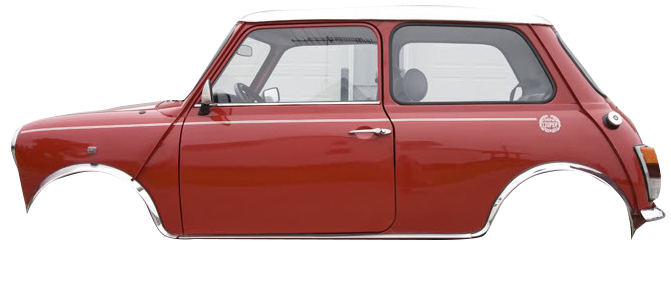
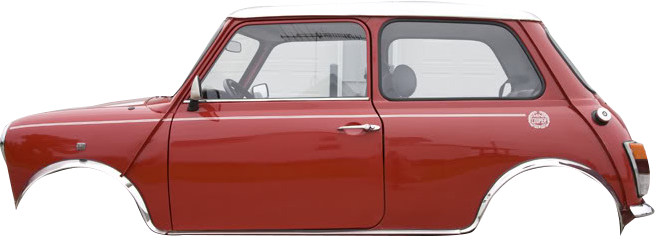
static pimped wheels

diff --git a/stylesheets/screen.css b/stylesheets/screen.css
@@ -67,9 +67,37 @@ article, aside, details, figcaption, figure, footer, header, hgroup, menu, nav, 
   display: block;
 }
 
-/* line 10, ../sass/screen.scss */
+/* line 11, ../sass/screen.scss */
+.clearfix, .ride__wheels {
+  *zoom: 1;
+}
+/* line 38, ../../../../../../Library/Ruby/Gems/1.8/gems/compass-0.12.2/frameworks/compass/stylesheets/compass/utilities/general/_clearfix.scss */
+.clearfix:after, .ride__wheels:after {
+  content: "";
+  display: table;
+  clear: both;
+}
+
+/* line 14, ../sass/screen.scss */
+h1 {
+  position: absolute;
+  top: 5%;
+  left: 0;
+  text-align: center;
+  width: 100%;
+  text-transform: uppercase;
+  color: #444;
+  font-size: 3em;
+  z-index: 3;
+}
+
+/* line 25, ../sass/screen.scss */
 #world {
-  background-size: 100% auto;
+  background-image: -webkit-gradient(linear, 50% 0%, 50% 100%, color-stop(0%, #ffffff), color-stop(36%, #ffffff), color-stop(82%, #aaaaaa), color-stop(82%, #777777), color-stop(85%, #777777), color-stop(93%, #aaaaaa), color-stop(100%, #eeeeee));
+  background-image: -webkit-linear-gradient(#ffffff, #ffffff 36%, #aaaaaa 82%, #777777 82%, #777777 85%, #aaaaaa 93%, #eeeeee);
+  background-image: -moz-linear-gradient(#ffffff, #ffffff 36%, #aaaaaa 82%, #777777 82%, #777777 85%, #aaaaaa 93%, #eeeeee);
+  background-image: -o-linear-gradient(#ffffff, #ffffff 36%, #aaaaaa 82%, #777777 82%, #777777 85%, #aaaaaa 93%, #eeeeee);
+  background-image: linear-gradient(#ffffff, #ffffff 36%, #aaaaaa 82%, #777777 82%, #777777 85%, #aaaaaa 93%, #eeeeee);
   position: absolute;
   top: 0;
   left: 0;
@@ -77,9 +105,8 @@ article, aside, details, figcaption, figure, footer, header, hgroup, menu, nav, 
   height: 100%;
 }
 
-/* line 19, ../sass/screen.scss */
+/* line 33, ../sass/screen.scss */
 .ride {
-  border: solid 1px green;
   position: absolute;
   bottom: 5%;
   left: 50%;
@@ -88,61 +115,33 @@ article, aside, details, figcaption, figure, footer, header, hgroup, menu, nav, 
   margin-left: -450px;
 }
 
-/* line 28, ../sass/screen.scss */
+/* line 41, ../sass/screen.scss */
 .ride__car {
-  border: solid 1px red;
+  position: absolute;
   width: 100%;
-  height: 100%;
-}
-
-/* line 33, ../sass/screen.scss */
-.wheel {
-  background: black;
-  background-image: -webkit-gradient(radial, 50% 50%, 0, 50% 50%, 90, color-stop(13%, #222222), color-stop(27%, #000000), color-stop(53%, #222222), color-stop(68%, #333333), color-stop(90%, #000000));
-  background-image: -webkit-radial-gradient(#222222 13%, #000000 27%, #222222 53%, #333333 68%, #000000 90%);
-  background-image: -moz-radial-gradient(#222222 13%, #000000 27%, #222222 53%, #333333 68%, #000000 90%);
-  background-image: -o-radial-gradient(#222222 13%, #000000 27%, #222222 53%, #333333 68%, #000000 90%);
-  background-image: radial-gradient(#222222 13%, #000000 27%, #222222 53%, #333333 68%, #000000 90%);
-  width: 150px;
-  height: 150px;
-  -webkit-border-radius: 50%;
-  -moz-border-radius: 50%;
-  -ms-border-radius: 50%;
-  -o-border-radius: 50%;
-  border-radius: 50%;
-  position: absolute;
   bottom: 0;
-}
-/* line 43, ../sass/screen.scss */
-.wheel:before {
-  background-color: #fff;
-  position: absolute;
-  top: 15%;
-  left: 15%;
-  width: 70%;
-  height: 70%;
-  content: "";
-  -webkit-border-radius: 50%;
-  -moz-border-radius: 50%;
-  -ms-border-radius: 50%;
-  -o-border-radius: 50%;
-  border-radius: 50%;
-  background-image: -webkit-gradient(radial, 50% 50%, 0, 50% 50%, 100, color-stop(23%, #777777), color-stop(25%, #555555), color-stop(27%, #777777), color-stop(51%, #999999), color-stop(63%, #c3c1c4), color-stop(100%, #c3c1c4));
-  background-image: -webkit-radial-gradient(#777777 23%, #555555 25%, #777777 27%, #999999 51%, #c3c1c4 63%, #c3c1c4);
-  background-image: -moz-radial-gradient(#777777 23%, #555555 25%, #777777 27%, #999999 51%, #c3c1c4 63%, #c3c1c4);
-  background-image: -o-radial-gradient(#777777 23%, #555555 25%, #777777 27%, #999999 51%, #c3c1c4 63%, #c3c1c4);
-  background-image: radial-gradient(#777777 23%, #555555 25%, #777777 27%, #999999 51%, #c3c1c4 63%, #c3c1c4);
-  -webkit-box-shadow: 0 0 5px black;
-  -moz-box-shadow: 0 0 5px black;
-  box-shadow: 0 0 5px black;
+  left: 0;
 }
 
-/* line 56, ../sass/screen.scss */
-.wheel--left {
-  left: 5%;
+/* line 47, ../sass/screen.scss */
+.ride__body {
+  width: 100%;
+  height: auto;
 }
 
-/* line 59, ../sass/screen.scss */
-.wheel--right {
-  right: 11%;
+/* line 51, ../sass/screen.scss */
+.ride__wheels {
+  margin: -105px 30px 0 5px;
+  position: relative;
+  z-index: 2;
+}
+
+/* line 57, ../sass/screen.scss */
+.ride__wheels__left {
+  float: left;
+}
+
+/* line 60, ../sass/screen.scss */
+.ride__wheels__right {
+  float: right;
 }

diff --git a/sass/screen.scss b/sass/screen.scss
@@ -5,11 +5,25 @@
 
 @import "compass/reset";
 @import "compass/css3";
+@import "compass/utilities/general/clearfix";
 
 
+.clearfix {
+	@include pie-clearfix();
+}
+h1 {
+	position: absolute;
+	top: 5%;
+	left: 0;
+	text-align: center;
+	width: 100%;
+	text-transform: uppercase;
+	color: #444;
+	font-size: 3em;
+	z-index: 3;
+}
 #world {
-	// background: url(/images/mini.jpg) no-repeat 0 0;
-	background-size: 100% auto;
+	@include background-image(linear-gradient(#ffffff, #ffffff 36%, #aaa 82%, #777 82%, #777 85%, #aaa 93%, #eee));
 	position: absolute;
 	top: 0;
 	left: 0;
@@ -17,7 +31,6 @@
 	height: 100%;
 }
 .ride {
-	border: solid 1px green;
 	position: absolute;
 	bottom: 5%;
 	left: 50%;
@@ -26,36 +39,24 @@
 	margin-left: -450px;
 }
 	.ride__car {
-		border: solid 1px red;
-		width: 100%;
-		height: 100%;
-	}
-.wheel {
-	background: black;
-	@include background-image( radial-gradient(#222 13%, #000 27%, #222 53%, #333 68%, #000 90%) );
-	width: 150px;
-	height: 150px;
-	@include border-radius(50%);
-	position: absolute;
-	bottom: 0;
-	// opacity: 0.5;
-
-	&:before {
-		background-color: #fff;
 		position: absolute;
-		top: 15%;
-		left: 15%;
-		width: 70%;
-		height: 70%;
-		content: "";
-		@include border-radius(50%);
-		@include background-image( radial-gradient(#777 23%, #555 25%, #777 27%, #999 51%, #c3c1c4 63%, #c3c1c4) );
-		@include box-shadow(0 0 5px #000)
+		width: 100%;
+		bottom: 0;
+		left: 0;
 	}
-}
-.wheel--left {
-	left: 5%;
-}
-.wheel--right {
-	right: 11%;
-}
+		.ride__body {
+			width: 100%;
+			height: auto;
+		}
+	.ride__wheels {
+		@extend .clearfix;
+		margin: -105px 30px 0 5px;
+		position: relative;
+		z-index: 2;
+	}
+		.ride__wheels__left {
+			float: left;
+		}
+		.ride__wheels__right {
+			float: right;
+		}

diff --git a/index.html b/index.html
@@ -12,9 +12,13 @@
 		<h1>css3 Pimp my Ride</h1>
 		<div id="world">
 			<div class="ride">
-				<img class="ride__car" src="/images/car.png" alt="car">
-				<div class="wheel wheel--left"></div>
-				<div class="wheel wheel--right"></div>
+				<div class="ride__car">
+					<img class="ride__body" src="/images/car.png" alt="car">
+					<div class="ride__wheels">
+						<img class="ride__wheels__left" src="/images/wheel-alloy.png" alt="">
+						<img class="ride__wheels__right" src="/images/wheel-alloy.png" alt="">
+					</div>
+				</div>
 			</div>
 		</div>
 	</body>
